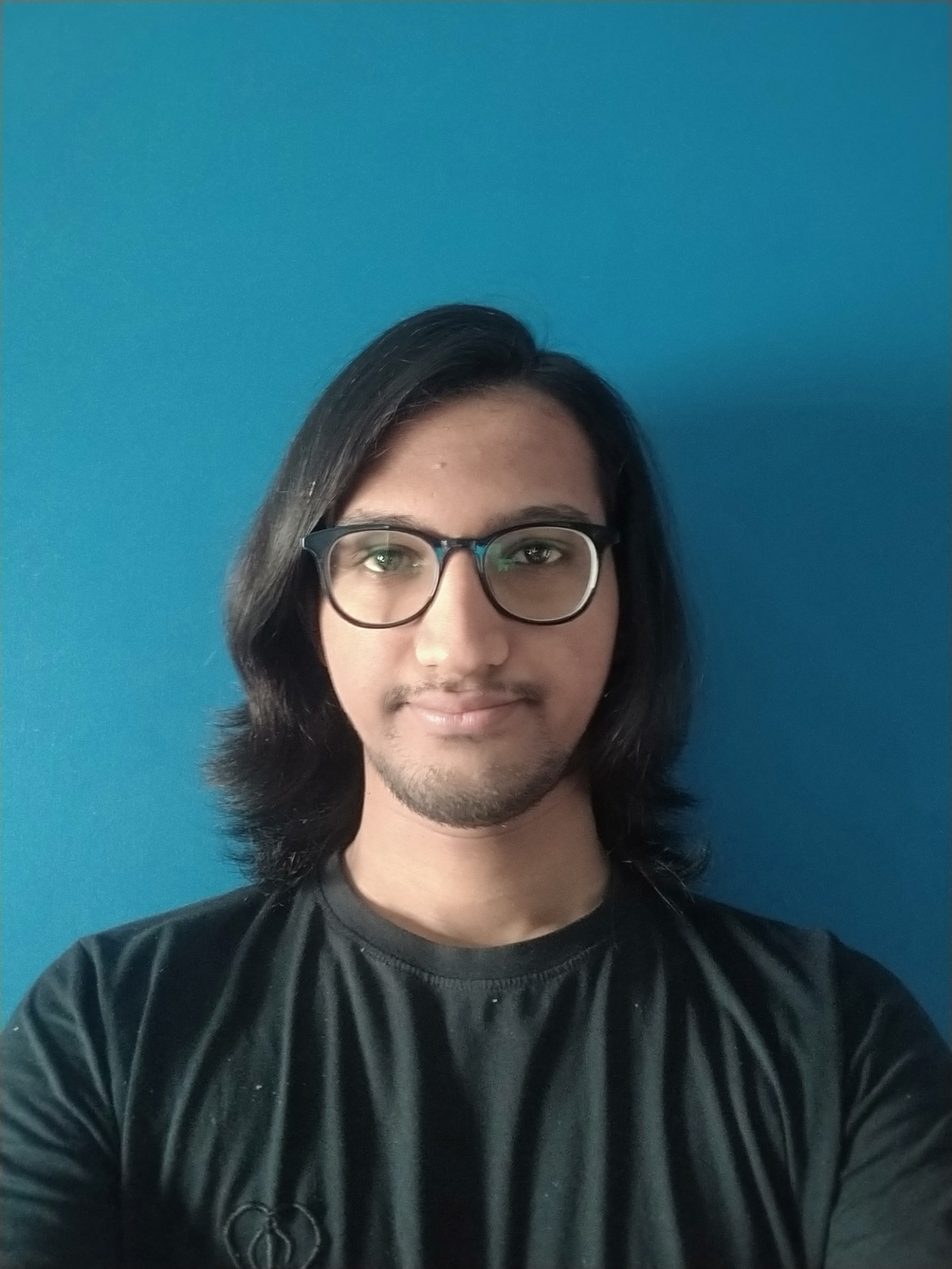
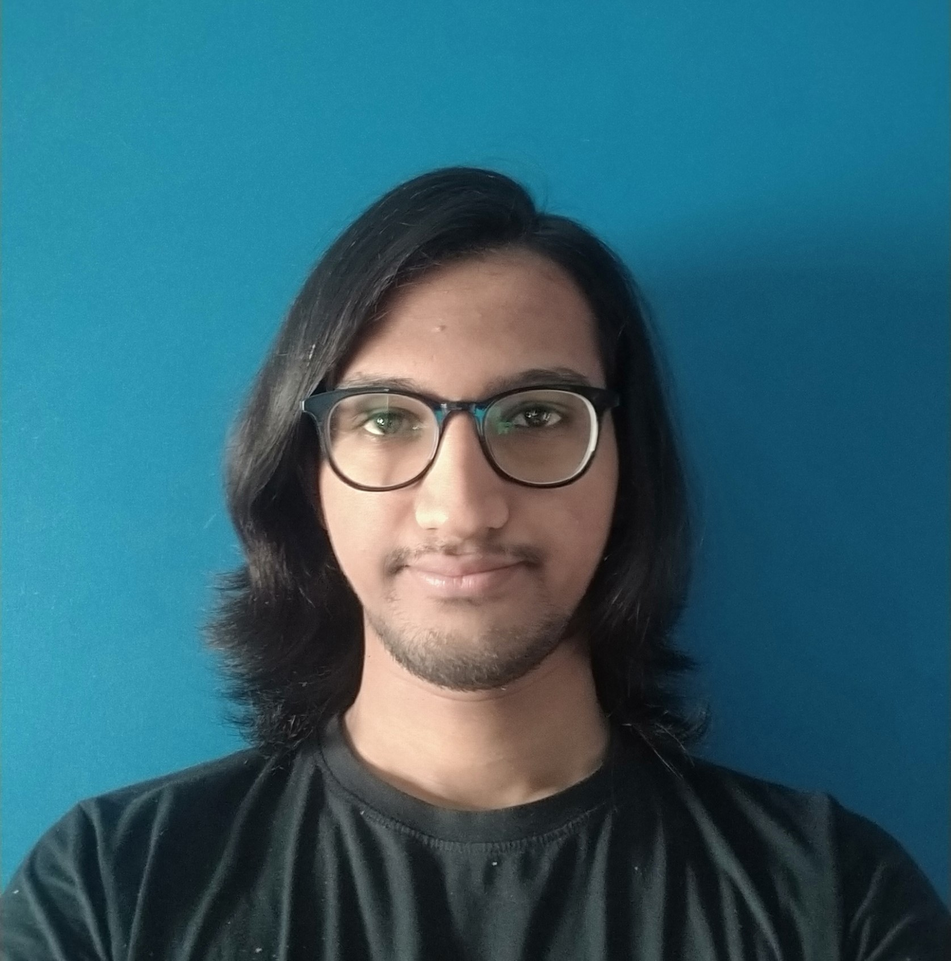
Testing the Resume #11

Changed region(s): [[0.0, 0.1537, 1.0, 1.0], [0.714, 0.5839, 0.7451, 0.6147]]

diff --git a/resume.md b/resume.md
@@ -1,13 +1,59 @@
 R Pranav Ajay
 ============
+<img src="./images/me.jpg" width=175 align="right">
 
-> Objective\
-> Comms\
-> Education\
-> Acheivements\
-> Projects\
-> Technical Interests\
-> Technical Skills\
-> Experience\
-> Extra Curricular Activities\
+### Objective:
+  An enthusiastic and dedicated freshman, looking to enter the world of
+  Software Development, with the motive of helping the organization
+  accelerate its goal and also learning in the journey.
+
+### Communication:
+  Email: pranav.ajay2000@gmail.com\
+  Phone: +919025108439\
+  GitHub ID: [sairpa](https://github.com/sairpa)\
+  Blog: [Blogger](https://rpatechie.blogspot.com/)
+
+
+### Education
+| Year | Name | Details |
+| --- | --- | --- |
+| 2018-2022 | Amrita School of Enginnering | Currently Undergoing<br>Btech on Computer Science and Engineering<br>CGPA - 8.05/10 (Until Semester-6) |
+| 2017-2018 | Maharishi International Resisdential School | Board: CBSE <br> Marks: 455/500 ~ 91% |
+| 2015-2016 | Maharishi International Resisdential School | Board: CBSE <br> CGPA - 10/10 ~ 100% |
+
+
+### Achievements
+  * Microsoft Learn Student Ambassador
+  * Active Member of NSS (National Service Scheme)
+  * Was part of Live-in-Labs Programme
+  * Maintainer of Tech Group in Social Media(Whatsapp & Telegram)
+
+### Projects:
+| Role/Name | Details |
+| --- | --- |
+| UI/UX Developer<br> Palladium OS<br> (On-going) | Worked as part of the Core Team in formulating and designing<br> UI and UX at Team Palladium<br> [Project Link](https://www.palladiumos.com/) |
+| Content Creator<br> Palladium OS<br> (On-going) | Worked on the Social Media Content Creation and distribution for<br> promotional activities at Team Palladium <br>[Project Link](https://www.youtube.com/channel/UC4pyGxm1WRMGl_wd8rzdnug)|
+| ToonLytV2 | An Android App with Pastiche creation abilities based on Google's project on Neural Style Transfer<br>[Project Link](https://github.com/sairpa/ToonLytV2)|
+| Kreative Rum | A collection of my digital art, 3D rendered models<br>[Project Link](https://github.com/sairpa/kreative_rum)|
+| Boredom Reliever | Collection of Games and Utilities that are multiplatform compatible and is powered by Java<br>[Project Link](https://github.com/Somnath1708/Boredom-Reliever)|
+
+### Technical Skills:
+* Programming Languages: C++, C, Python, Kotlin, Java, C# 
+* Operating System: Windows,  Linux Distributions ( Debian & Arch based)
+* Frameworks: Android SDK, OpenCV, Tensorflow, Unity  
+
+### Technical Interests:
+* Operating Systems
+* Computational Photography
+* Game Development
+
+### Experience:
+| Designation | Organisation | Duration | Details |
+| --- | --- | --- | --- |
+| Android App Developer <br>| TripUpp HR | August 2020 - September 2020 |Worked on an Educational Android App platform for online education<br> - UI creation and implementation<br> - Live Video Feed implementation<br> - Peer to peer Chat System<br> |
+
+### Extracuricular Activities:
+* Digital Art and Illustration
+* Long Distance Runner
+* Watching and Playing Football
 
